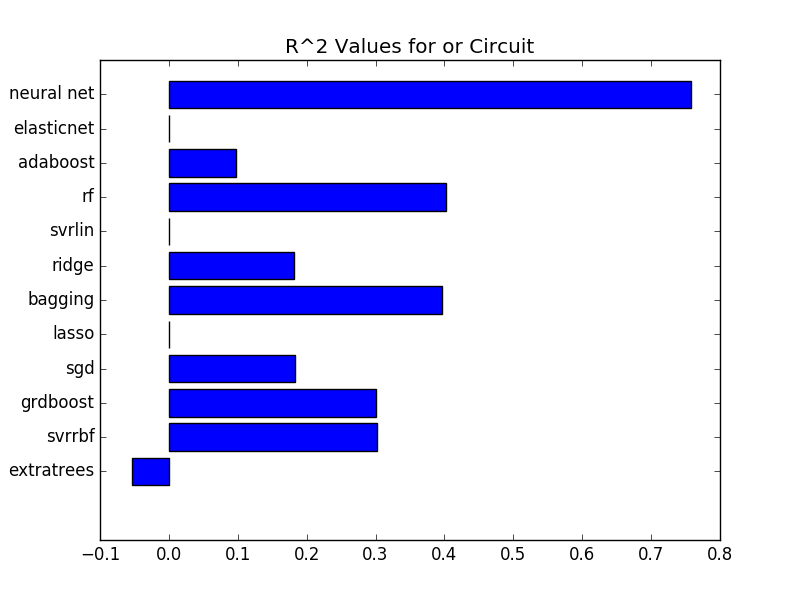
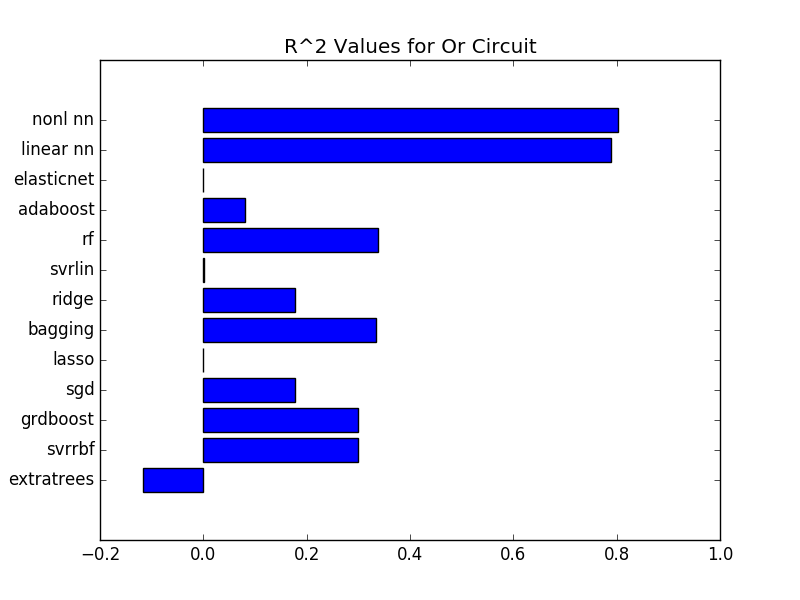
Added more graph stuff

diff --git a/graph.py b/graph.py
@@ -9,7 +9,12 @@ circuit = sys.argv[1]
 npzfile = np.load('results.npz')
 names = npzfile['arr_0']
 values = npzfile['arr_1']
-npzfile2 = np.load('results_nn.npz')
+npzfile2 = np.load('results_lnn.npz')
+name = npzfile2['arr_0']
+value = npzfile2['arr_1']
+names = np.append(names, name)
+values = np.append(values, value)
+npzfile2 = np.load('results_nnn.npz')
 name = npzfile2['arr_0']
 value = npzfile2['arr_1']
 names = np.append(names, name)
@@ -18,6 +23,6 @@ values = np.append(values, value)
 y_pos = np.arange(len(names))
 plt.barh(y_pos, values, align='center')
 plt.yticks(y_pos, names)
-plt.title("R^2 Values for " + circuit + " Circuit")
+plt.title("R^2 Values for " + circuit.title() + " Circuit")
 #plt.show()
 plt.savefig('charts/' + circuit.title() + '.png')

diff --git a/nn_nonlinear.py b/nn_nonlinear.py
@@ -1,6 +1,7 @@
 import tensorflow as tf
 import numpy as np
 import sys
+import os
 
 print "\nCompleted imports"
 
@@ -167,7 +168,12 @@ with tf.Session() as sess:
     y_var = sess.run(train_var, feed_dict = {X: X_test, Y: Y_test})
 
     # Print the R^2 value
-    print ( "R^2: " + str(1 - (error_pred / y_var)) )
+    name = 'nonl nn'
+    R2 = 1 - (error_pred / y_var)
+    print ( "R^2: " + str(R2) )
+    if os.path.exists('results_nnn.npz'):
+        os.remove('results_nnn.npz')
+    np.savez('results_nnn.npz', [name], [R2])
 
 
 

diff --git a/nn.py b/nn.py
@@ -168,12 +168,12 @@ with tf.Session() as sess:
     y_var = sess.run(train_var, feed_dict = {X: X_test, Y: Y_test})
 
     # Print the R^2 value
-    name = 'neural net'
+    name = 'linear nn'
     R2 = 1 - (error_pred / y_var)
     print ( "R^2: " + str(R2) )
-    if os.path.exists('results_nn.npz'):
-        os.remove('results_nn.npz')
-    np.savez('results_nn.npz', [name], [R2])
+    if os.path.exists('results_lnn.npz'):
+        os.remove('results_lnn.npz')
+    np.savez('results_lnn.npz', [name], [R2])
 
 
 
